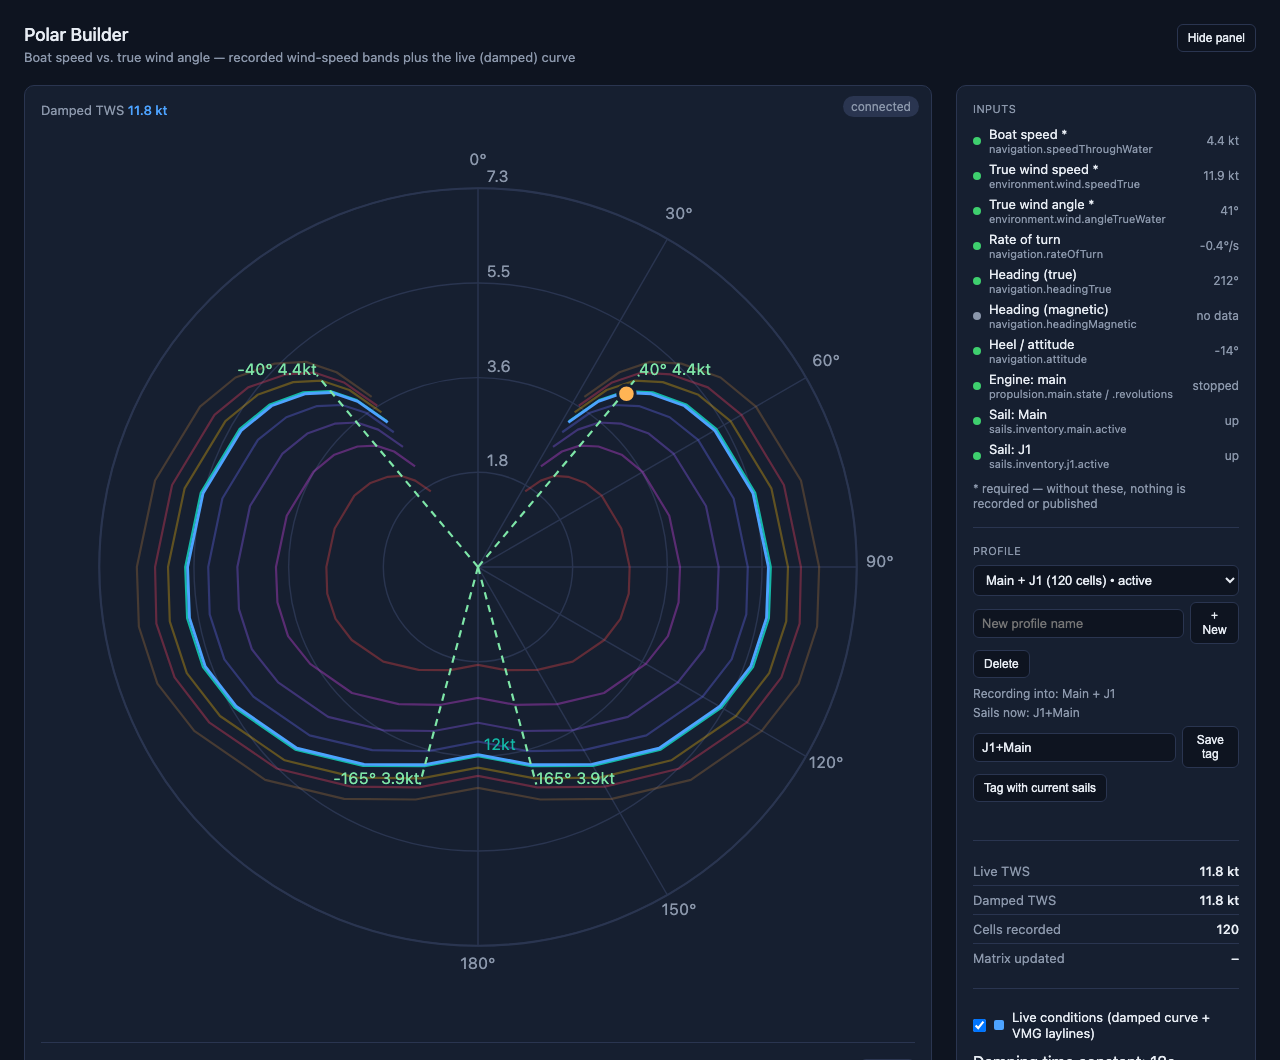
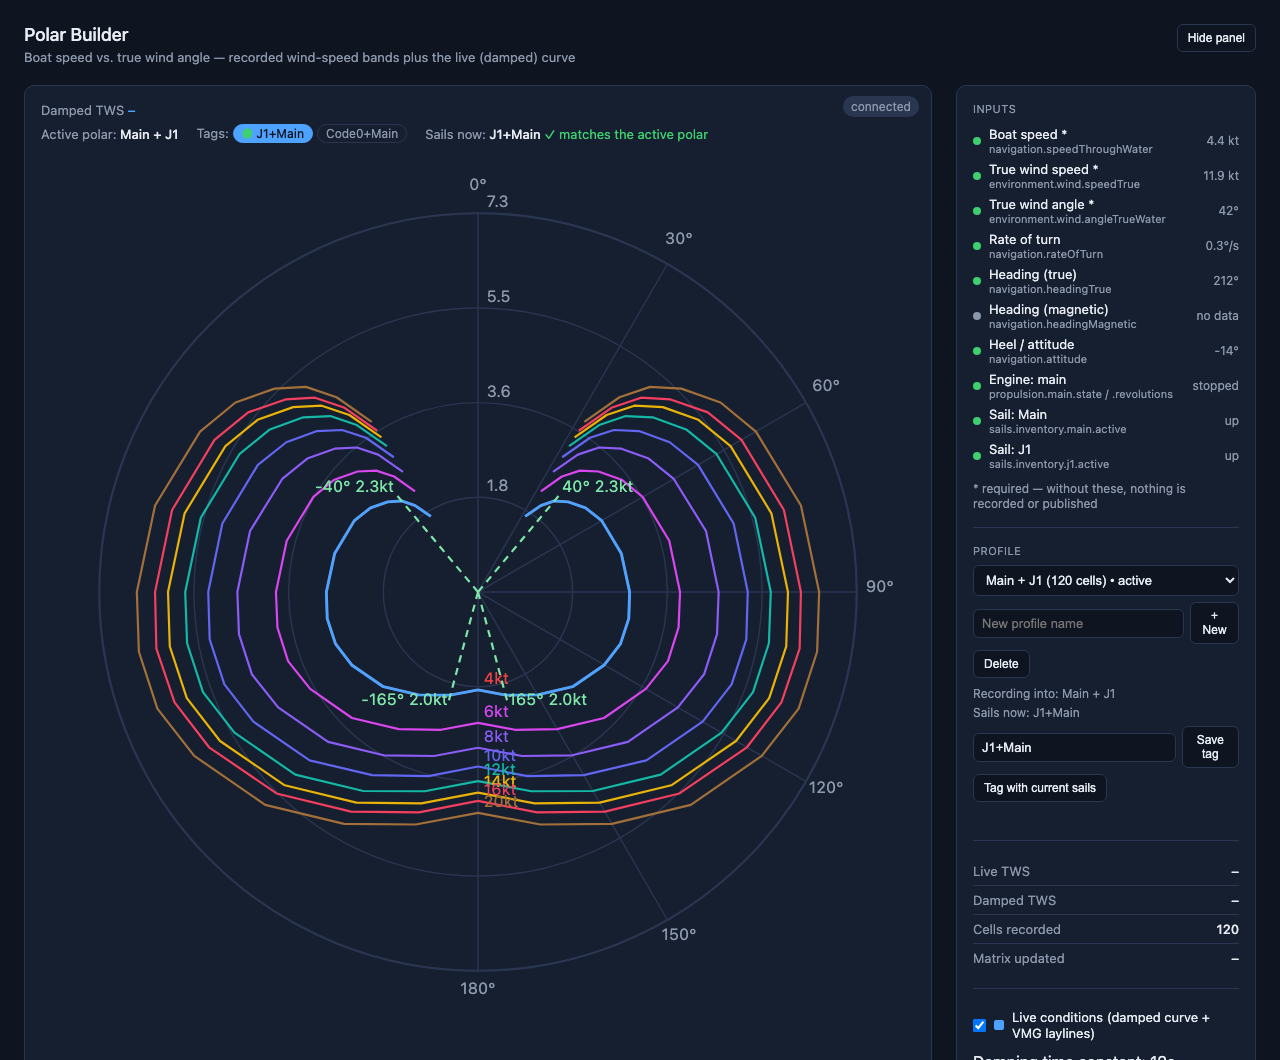
Show the active polar and sail tags above the chart
A status line outside the side panel (so it survives "Hide panel") names the
active polar, lists every profile's sail tag with the active one filled and
any matching the sails up right now marked, and says whether the sails up
match the active polar's tag. Refreshes with the existing profile fetch.

diff --git a/public/index.html b/public/index.html
@@ -87,6 +87,13 @@
   .legend-header button { font-size: 11px; padding: 3px 8px; }
   .damped-readout { font-size: 13px; color: var(--muted); margin-bottom: 12px; }
   .damped-readout span { color: var(--accent); font-weight: 500; }
+  .polar-status { font-size: 13px; color: var(--muted); margin: -6px 0 12px; display: flex; flex-wrap: wrap; align-items: center; gap: 4px 18px; }
+  .polar-status b { color: var(--text); font-weight: 500; }
+  .tag-chip { display: inline-block; font-size: 12px; padding: 1px 8px; margin-left: 4px; border-radius: 999px; border: 1px solid var(--border); color: var(--muted); }
+  .tag-chip.active { background: var(--accent); border-color: var(--accent); color: var(--bg); font-weight: 500; }
+  .tag-chip.live::before { content: '\25CF\00a0'; color: var(--status-ok); }
+  .match-ok { color: var(--status-ok); }
+  .match-differs { color: var(--live); }
   .input-row { display: flex; align-items: center; gap: 8px; font-size: 13px; padding: 3px 0; }
   .input-dot { width: 8px; height: 8px; border-radius: 50%; flex: 0 0 auto; }
   .input-label { flex: 1 1 auto; min-width: 0; }
@@ -106,6 +113,7 @@
     <div class="chart-wrap">
       <span class="badge" id="connBadge">connecting&hellip;</span>
       <div class="damped-readout">Damped TWS <span id="dampedTwsReadout">&ndash;</span></div>
+      <div class="polar-status" id="polarStatus"></div>
       <div id="emptyState" class="empty">No polar data recorded yet &mdash; go sailing, or run a test injector.</div>
       <svg id="chart" viewBox="0 0 600 600" style="width:100%;height:auto;display:none" role="img" aria-label="Polar diagram of boat speed versus true wind angle"></svg>
       <div class="note" id="clampNote"></div>
@@ -230,6 +238,7 @@
   var deleteConfirmNo = document.getElementById('deleteConfirmNo')
   var profileStatus = document.getElementById('profileStatus')
   var liveSailConfigEl = document.getElementById('liveSailConfig')
+  var polarStatusEl = document.getElementById('polarStatus')
   var sailConfigInput = document.getElementById('sailConfigInput')
   var saveSailConfigBtn = document.getElementById('saveSailConfigBtn')
   var useCurrentSailConfigBtn = document.getElementById('useCurrentSailConfigBtn')
@@ -362,6 +371,50 @@
     }
   }
 
+  // Which polar is recording, which sail tags exist (the active polar's is
+  // filled, any matching the sails up right now has a green dot), and whether
+  // the sails up match the active polar's tag. Lives above the chart rather
+  // than in the side panel so it's visible with the panel hidden. Profile
+  // names and tags are user text: built with textContent only.
+  function renderPolarStatus () {
+    polarStatusEl.textContent = ''
+    var active = profilesList.filter(function (p) { return p.id === activeProfileId })[0]
+    if (!active) return
+
+    function text (parent, value, tag, cls) {
+      var el = document.createElement(tag || 'span')
+      if (cls) el.className = cls
+      el.textContent = value
+      parent.appendChild(el)
+      return el
+    }
+
+    var polar = text(polarStatusEl, 'Active polar: ', 'span')
+    text(polar, active.name, 'b')
+    var viewed = profilesList.filter(function (p) { return p.id === viewedProfileId })[0]
+    if (viewed && viewed.id !== active.id) text(polar, ' (chart shows ' + viewed.name + ')')
+
+    var tagged = profilesList.filter(function (p) { return p.sailConfig })
+    var tags = text(polarStatusEl, 'Tags:', 'span')
+    if (!tagged.length) text(tags, ' none', 'span')
+    tagged.forEach(function (p) {
+      var chip = text(tags, p.sailConfig, 'span', 'tag-chip' + (p.id === activeProfileId ? ' active' : '') + (p.sailConfig === currentSailConfig ? ' live' : ''))
+      chip.title = p.name + (p.id === activeProfileId ? ' (active)' : '')
+    })
+
+    var sails = text(polarStatusEl, 'Sails now: ', 'span')
+    text(sails, currentSailConfig || '–', 'b')
+    if (currentSailConfig) {
+      if (active.sailConfig === currentSailConfig) {
+        text(sails, ' ✓ matches the active polar', 'span', 'match-ok')
+      } else {
+        var other = profilesList.filter(function (p) { return p.sailConfig === currentSailConfig })[0]
+        text(sails, active.sailConfig ? ' ≠ active polar is tagged ' + active.sailConfig : ' — active polar has no tag', 'span', 'match-differs')
+        if (other) text(sails, ' (' + other.name + ' is tagged for these sails)', 'span')
+      }
+    }
+  }
+
   function setSailConfig (profileId, sailConfig) {
     return fetch(PROFILES_URL + '/' + encodeURIComponent(profileId) + '/sail-config', {
       method: 'POST',
@@ -382,6 +435,7 @@
         }
         renderProfileSelect()
         updateSailConfigUI()
+        renderPolarStatus()
         fetchMatrix()
       })
       .catch(function () {})
@@ -395,6 +449,7 @@
     pendingImport = null
     renderProfileSelect()
     updateSailConfigUI()
+    renderPolarStatus()
     fetchMatrix()
   })
 

diff --git a/README.md b/README.md
@@ -185,6 +185,17 @@ sign convention there could actively mislead rather than just be absent.
 
 ## Webapp
 
+A status line above the chart (so it's still there with the side panel
+hidden) shows which polar is the **active** one, i.e. the profile being
+recorded into and used for the published `performance.*` values, with the
+chart's own profile in brackets if you're looking at a different one. Next
+to it are the **sail tags** of all your profiles: the active polar's tag is
+filled, and a tag matching the sails up right now carries a green dot.
+**Sails now** then says whether the sails up match the active polar's tag
+(`✓ matches the active polar`) or not (in amber, naming the profile that
+*is* tagged for them, if there is one) — the case where recording or
+reported performance would be using the wrong polar.
+
 The **Inputs** panel lists every Signal K path this plugin subscribes to —
 boat speed, true wind speed/angle, rate of turn, heading (true/magnetic),
 heel/attitude, and each detected engine instance — with a status dot (green
